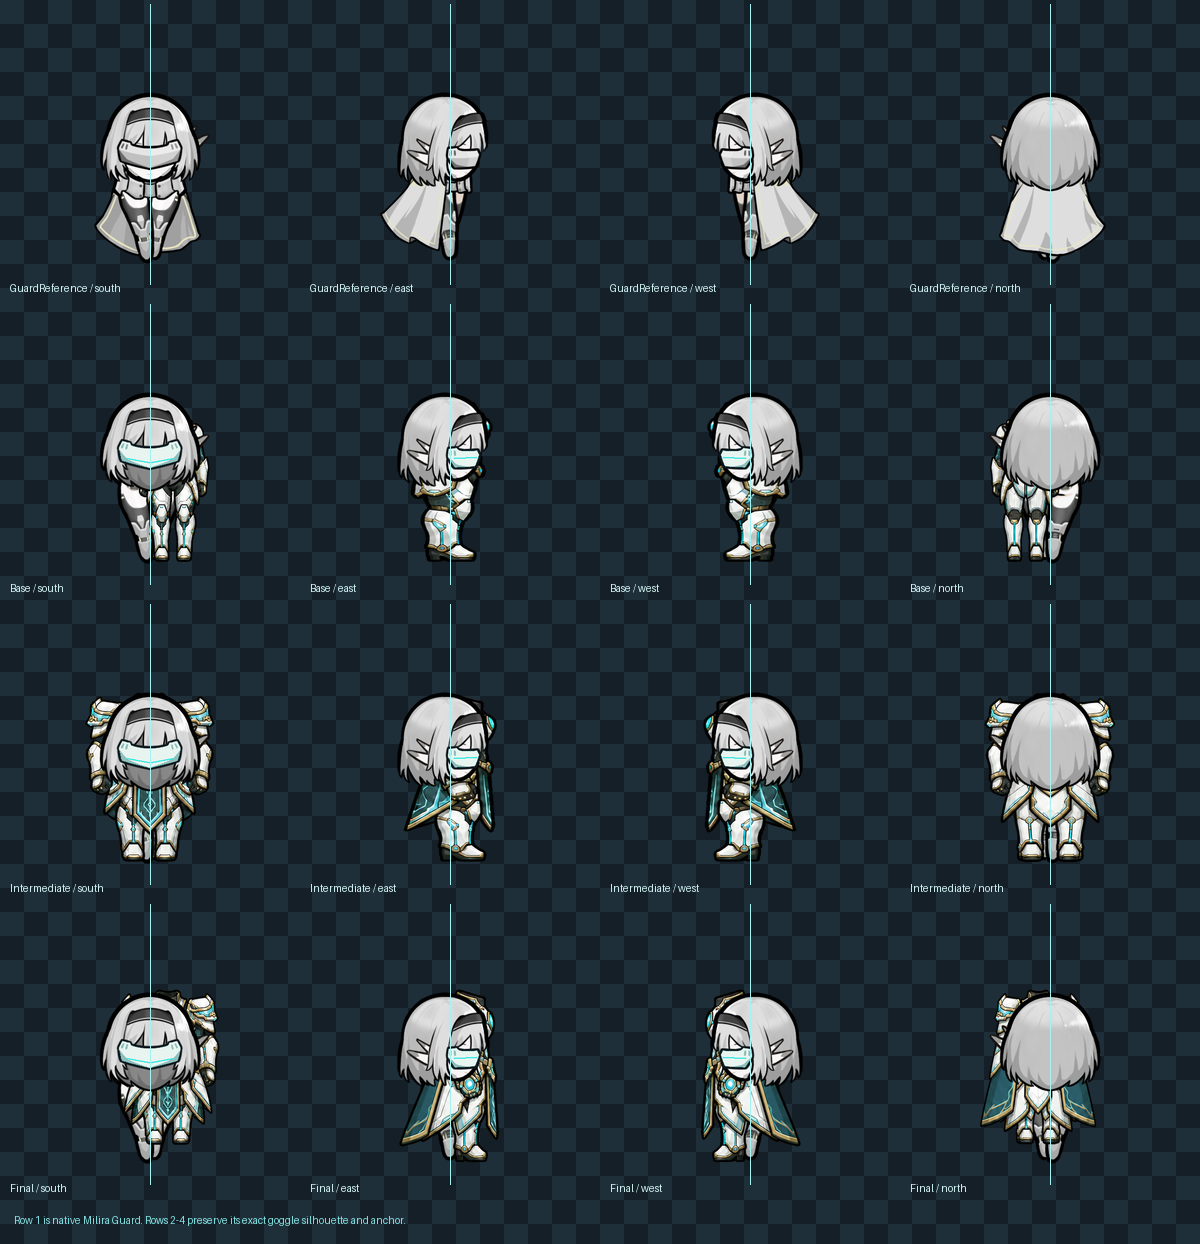
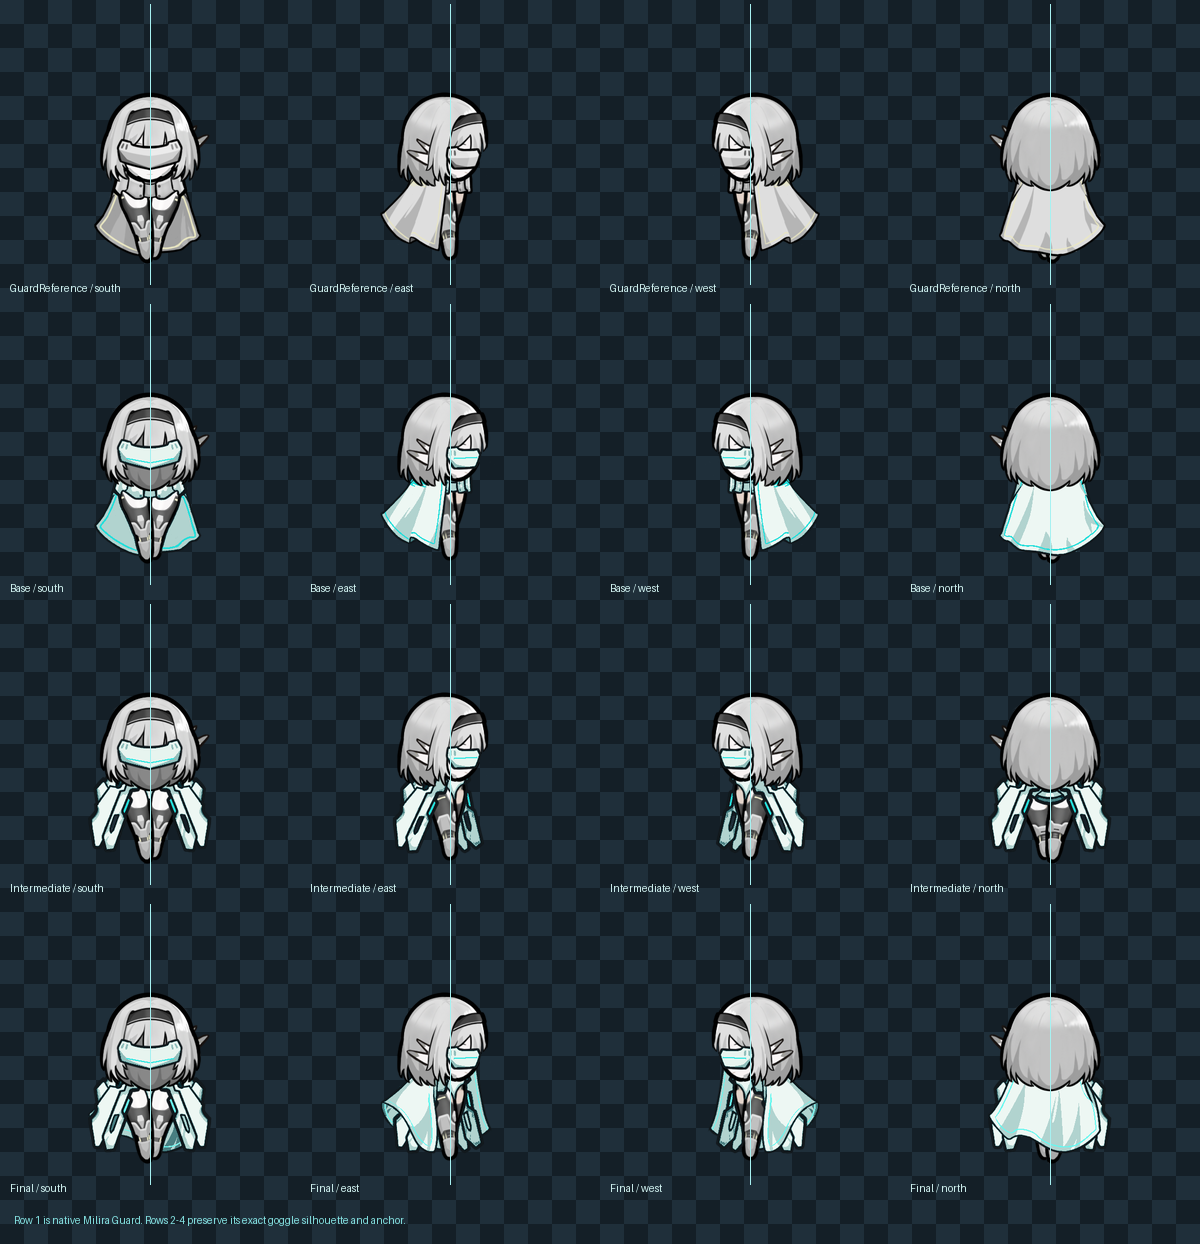
Rebuild Shenji armor on native Milian anchors

diff --git a/Source/build_shenji_armor_from_milira.py b/Source/build_shenji_armor_from_milira.py
@@ -1,0 +1,70 @@
+"""Rebuild Shenji armour as true Milian apparel overlays.
+
+The old generated PNGs redrew an entire humanoid body, including limbs. Milira's
+renderer then drew its own body/head over them, producing a sideways duplicate.
+These assets preserve the exact canvas, alpha silhouette and anchor of proven
+native Milian apparel: Guard, Guardian and Paladin armour.
+"""
+
+from pathlib import Path
+from PIL import Image
+
+
+MOD = Path(__file__).resolve().parents[1]
+REF = MOD.parent / "参考Mod" / "必需" / "Milira Race [3256974620]" / "Content" / "Textures"
+SOURCE_ROOT = REF / "Milian" / "Apparel" / "Middle"
+OUTPUT = MOD / "Content" / "Textures" / "Yunjianzi" / "Apparel" / "Shenji"
+TIERS = {
+    "Base": "GuardArmor",
+    "Intermediate": "GuardianArmor",
+    "Final": "PaladinArmor",
+}
+
+
+def recolor(source: Image.Image, tier: str) -> Image.Image:
+    source = source.convert("RGBA")
+    result = Image.new("RGBA", source.size, (0, 0, 0, 0))
+    src = source.load()
+    dst = result.load()
+    for y in range(source.height):
+        for x in range(source.width):
+            red, green, blue, alpha = src[x, y]
+            if alpha == 0:
+                continue
+            luminance = (red * 30 + green * 59 + blue * 11) // 100
+            warm_accent = red > 120 and green > 105 and blue + 16 < green
+            if warm_accent:
+                color = (35, 222, 218) if tier != "Final" else (104, 247, 239)
+            elif luminance < 34:
+                color = (17, 24, 28)
+            elif luminance < 82:
+                color = (7, 45, 53)
+            elif luminance < 142:
+                color = (72, 126, 129)
+            elif luminance < 205:
+                color = (177, 211, 207)
+            else:
+                color = (237, 247, 243)
+            dst[x, y] = (*color, alpha)
+    return result
+
+
+def main() -> None:
+    OUTPUT.mkdir(parents=True, exist_ok=True)
+    for tier, source_name in TIERS.items():
+        built = {}
+        for direction in ("south", "east", "north"):
+            source_path = SOURCE_ROOT / source_name / f"{source_name}_Female_{direction}.png"
+            source = Image.open(source_path).convert("RGBA")
+            armour = recolor(source, tier)
+            if armour.getchannel("A").getbbox() != source.getchannel("A").getbbox():
+                raise RuntimeError(f"{tier}/{direction}: native apparel anchor changed")
+            destination = OUTPUT / f"ShenjiArmor_{tier}_Female_{direction}.png"
+            armour.save(destination)
+            built[direction] = armour
+            print(destination)
+        built["south"].save(OUTPUT / f"ShenjiArmor_{tier}.png")
+
+
+if __name__ == "__main__":
+    main()
